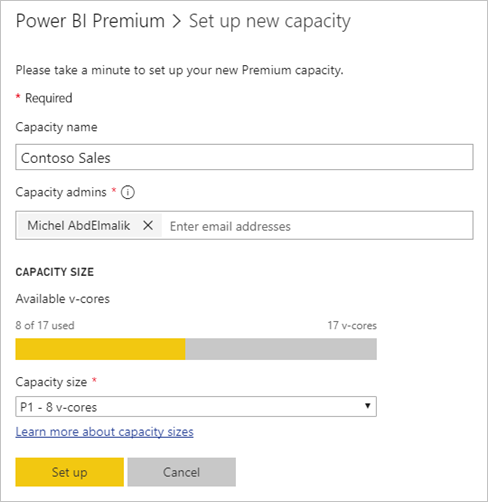
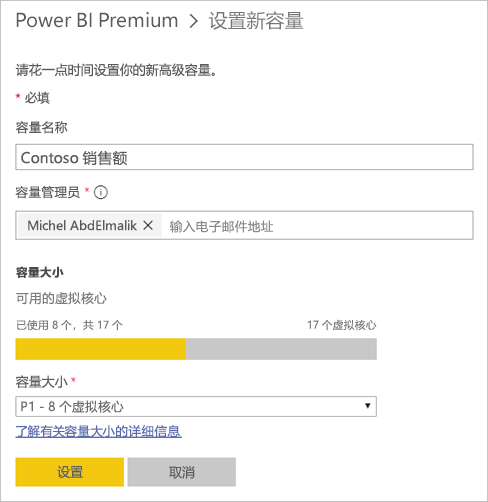
commit translated contents

diff --git a/powerbi-docs/consumer/mobile/mobile-app-windows-10-ssrs-kpis-mobile-reports.md b/powerbi-docs/consumer/mobile/mobile-app-windows-10-ssrs-kpis-mobile-reports.md
@@ -5,22 +5,22 @@ author: paulinbar
 ms.service: powerbi
 ms.subservice: powerbi-mobile
 ms.topic: conceptual
-ms.date: 03/09/2020
+ms.date: 05/19/2020
 ms.author: painbar
-ms.openlocfilehash: 67daafc0938216b135b31d3190c191402e9a10de
-ms.sourcegitcommit: 7aa0136f93f88516f97ddd8031ccac5d07863b92
+ms.openlocfilehash: 28353ec6d0b2f8a1f83544d63526748c621cb858
+ms.sourcegitcommit: 250242fd6346b60b0eda7a314944363c0bacaca8
 ms.translationtype: HT
 ms.contentlocale: zh-CN
-ms.lasthandoff: 05/05/2020
-ms.locfileid: "79435366"
+ms.lasthandoff: 05/20/2020
+ms.locfileid: "83694116"
 ---
 # <a name="view-on-premises-reports-and-kpis-in-the-power-bi-windows-app"></a>在 Power BI Windows 应用中查看本地报表和 KPI
 使用适用于 Windows 10 的 Power BI 应用，可以通过触控实时移动访问 SQL Server 2016 Reporting Services 中的重要本地业务信息。 
 
-![Reporting Services 移动报表](././media/mobile-app-windows-10-ssrs-kpis-mobile-reports/power-bi-ssrs-mobile-report.png)
+![Reporting Services 移动报表](media/mobile-app-windows-10-ssrs-kpis-mobile-reports/power-bi-ssrs-mobile-report.png)
 
 ## <a name="first-things-first"></a>要做的第一件事
-可以使用 SQL Server 2016 企业版移动报表发布服务器[生成 Reporting Services 移动报表](https://msdn.microsoft.com/library/mt652547.aspx)，然后将其发布到 [Reporting Services Web 门户](https://msdn.microsoft.com/library/mt637133.aspx)。 直接在 Web 门户中创建 KPI。 将其按文件夹进行整理并标记出你的收藏夹，以便轻松地找到它们。 
+可以使用 SQL Server 2016 企业版移动报表发布服务器[生成 Reporting Services 移动报表](/sql/reporting-services/mobile-reports/create-mobile-reports-with-sql-server-mobile-report-publisher)，然后将其发布到 [Reporting Services Web 门户](/sql/reporting-services/web-portal-ssrs-native-mode)。 直接在 Web 门户中创建 KPI。 将其按文件夹进行整理并标记出你的收藏夹，以便轻松地找到它们。 
 
 然后，在适用于 Windows 10 的 Power BI 应用中，查看已按文件夹整理或收集为收藏项的 KPS、移动报表和 Power BI 报表。 
 
@@ -28,85 +28,87 @@ ms.locfileid: "79435366"
 > 设备需要运行 Windows 10。 该应用在至少具有 1 GB RAM 和 8 GB 内部存储的设备上运行最佳。
 
 >[!NOTE]
->我们将于 2021 年 3 月 16 日终止对使用 Windows 10 移动版的手机提供 Power BI 移动应用支持  。 [了解详细信息](https://go.microsoft.com/fwlink/?linkid=2121400)
+>我们将于 2021 年 3 月 16 日终止对使用 Windows 10 移动版的手机提供 Power BI 移动应用支持。 [了解详细信息](https://go.microsoft.com/fwlink/?linkid=2121400)
 
 ## <a name="explore-samples-without-a-sql-server-2016-reporting-services-server"></a>在没有 SQL Server 2016 Reporting Services 服务器的情况下浏览示例
 即使你没有对 Reporting Services Web 门户的访问权限，仍可以浏览 Reporting Services 移动报表的功能。
 
 1. 在 Windows 10 设备上打开 Power BI 应用。
-2. 点击左上角的 ![全局导航按钮 ](././media/mobile-app-windows-10-ssrs-kpis-mobile-reports/powerbi_windows10_options_icon.png) 全局导航按钮。
-3. 点击“设置”  图标 ![设置图标](./././media/mobile-app-windows-10-ssrs-kpis-mobile-reports/power-bi-settings-icon.png)，右键单击或点击并按住“连接到服务器”  ，再点击“查看示例”  。
+2. 点击左上角的 ![全局导航按钮](media/mobile-app-windows-10-ssrs-kpis-mobile-reports/powerbi_windows10_options_icon.png) 全局导航按钮。
+3. 点击“设置”图标 ![设置图标](media/mobile-app-windows-10-ssrs-kpis-mobile-reports/power-bi-settings-icon.png)，右键单击或点击并按住“连接到服务器”，再点击“查看示例”。
    
-   ![查看 SSRS 示例](./media/mobile-app-windows-10-ssrs-kpis-mobile-reports/power-bi-win10-connect-ssrs-samples.png)
+   ![查看 SSRS 示例](media/mobile-app-windows-10-ssrs-kpis-mobile-reports/power-bi-win10-connect-ssrs-samples.png)
 4. 打开零售报表或销售报表文件夹，浏览 KPI 和移动报表。
    
-   ![示例 KPI 和移动报表](./media/mobile-app-windows-10-ssrs-kpis-mobile-reports/power-bi-win10-ssrs-sample-kpis.png)
+   ![示例 KPI 和移动报表](media/mobile-app-windows-10-ssrs-kpis-mobile-reports/power-bi-win10-ssrs-sample-kpis.png)
 
 浏览示例以与 KPI 和移动报表进行交互。
 
 ## <a name="connect-to-a-reporting-services-report-server"></a>连接到 Reporting Services 报表服务器
-1. 在导航窗格底部，点击“设置” **“设置”图标**![](./././media/mobile-app-windows-10-ssrs-kpis-mobile-reports/power-bi-settings-icon.png)
-2. 点击“连接到服务器”  。
+1. 在导航窗格底部，点击“设置”![“设置”图标](media/mobile-app-windows-10-ssrs-kpis-mobile-reports/power-bi-settings-icon.png)
+2. 点击“连接到服务器”。
 3. 填写服务器地址以及用户名和密码。 对服务器地址使用如下格式：
    
      `https://<servername>/reports` 或 `https://<servername>/reports`
    
    > [!NOTE]
-   > 连接字符串的开头包括 http  或 https  。
+   > 连接字符串的开头包括 http 或 https。
    > 
    > 
    
-    如果需要，点击**高级选项**以指定服务器名称。
+    如果需要，点击“高级选项”以指定服务器名称。
 4. 点击复选标记进行连接。 
    
    现在会在导航窗格中看到服务器。
    
-   ![导航窗格中的服务器](./media/mobile-app-windows-10-ssrs-kpis-mobile-reports/power-bi-ssrs-mobile-report-server.png)
+   ![导航窗格中的服务器](media/mobile-app-windows-10-ssrs-kpis-mobile-reports/power-bi-ssrs-mobile-report-server.png)
    
    >[!TIP]
-   >随时点击全局导航按钮 ![全局导航按钮](././media/mobile-app-windows-10-ssrs-kpis-mobile-reports/powerbi_windows10_options_icon.png)，在 Power BI 服务中的 Reporting Services 移动报表和仪表板之间切换。 
+   >随时点击全局导航按钮 ![全局导航按钮](media/mobile-app-windows-10-ssrs-kpis-mobile-reports/powerbi_windows10_options_icon.png)，在 Power BI 服务中的 Reporting Services 移动报表和仪表板之间切换。 
    > 
+
+   >[!NOTE]
+   >不支持通过自定义端口配置的报表服务器，也无法从 Power BI Windows 应用访问此类报表服务器。 
 
 ## <a name="view-reporting-services-kpis-and-mobile-reports-in-the-power-bi-app"></a>在 Power BI 应用中查看 Reporting Services KPI 和移动报表
 Reporting Services KPI、移动报表和 Power BI 报表（预览版）显示在 Reporting Services Web 门户上的相同文件夹中。
 
-![报表文件夹](./media/mobile-app-windows-10-ssrs-kpis-mobile-reports/power-bi-ssrs-mobile-report-folders.png)
+![报表文件夹](media/mobile-app-windows-10-ssrs-kpis-mobile-reports/power-bi-ssrs-mobile-report-folders.png)
 
-* 点击 KPI 以在焦点模式中查看它。
+* 点击 KPI 以在焦点模式中看到它。
   
-    ![焦点模式下的 KPI](./media/mobile-app-windows-10-ssrs-kpis-mobile-reports/power-bi-ssrs-mobile-report-kpis.png)
-* 点击移动报表以在 Power BI 应用中打开并与其进行交互。
+    ![焦点模式下的 KPI](media/mobile-app-windows-10-ssrs-kpis-mobile-reports/power-bi-ssrs-mobile-report-kpis.png)
+* 点击移动报表以在 Power BI 应用中打开并与其交互。
   
-    ![Reporting Services 移动报表](././media/mobile-app-windows-10-ssrs-kpis-mobile-reports/power-bi-ssrs-mobile-report.png)
+    ![Reporting Services 移动报表](media/mobile-app-windows-10-ssrs-kpis-mobile-reports/power-bi-ssrs-mobile-report.png)
 
 ## <a name="view-your-favorite-kpis-and-reports"></a>查看你收藏的 KPI 和报表
 可以在 Reporting Services Web 门户中将 KPI、移动报表和 Power BI 报表标记为收藏项，然后可以在 Windows 10 设备上的一个方便文件夹中查看它们，以及 Power BI 收藏的仪表板和报表。
 
-* 点击“收藏夹”  。
+* 点击**收藏夹**。
   
-   ![“收藏夹”图标](./media/mobile-app-windows-10-ssrs-kpis-mobile-reports/power-bi-ssrs-mobile-report-favorite-menu.png)
+   ![“收藏夹”图标](media/mobile-app-windows-10-ssrs-kpis-mobile-reports/power-bi-ssrs-mobile-report-favorite-menu.png)
   
    你在 Web 门户上的收藏项都在此页上。
   
-详细了解有关 [Power BI 移动应用中的收藏夹](mobile-apps-favorites.md)的信息。
+阅读有关 [Power BI 移动应用中的收藏夹](mobile-apps-favorites.md) 的更多信息。
 
 ## <a name="remove-a-connection-to-a-report-server"></a>删除与报表服务器的连接
 在 Power BI 移动应用中一次只能连接到一个报表服务器。 如果想要连接到不同的服务器，需要断开与当前服务器的连接。
 
-1. 在导航窗格底部，点击“设置” **“设置”图标**![](./././media/mobile-app-windows-10-ssrs-kpis-mobile-reports/power-bi-settings-icon.png)。
+1. 在导航窗格底部，点击“设置”![“设置”图标](media/mobile-app-windows-10-ssrs-kpis-mobile-reports/power-bi-settings-icon.png)。
 2. 点击并按住不想连接到的服务器的名称。
-3. 点击“删除服务器”  。
+3. 点击“删除服务器”。
    
-    ![删除服务器](./media/mobile-app-windows-10-ssrs-kpis-mobile-reports/power-bi-windows-10-ssrs-remove-server-menu.png)
+    ![删除服务器](media/mobile-app-windows-10-ssrs-kpis-mobile-reports/power-bi-windows-10-ssrs-remove-server-menu.png)
 
 ## <a name="create-reporting-services-mobile-reports-and-kpis"></a>创建 Reporting Services 移动报表和 KPI
 不是在 Power BI 移动应用中创建 Reporting Services KPI 和移动报表。 而是在 SQL Server 移动报表发布服务器和 SQL Server 2016 Reporting Services Web 门户中创建它们。
 
-* [创建自己的 Reporting Services 移动报表](https://msdn.microsoft.com/library/mt652547.aspx)并将其发布到 Reporting Services Web 门户。
-* [在 Reporting Services Web 门户上创建 KPI](https://msdn.microsoft.com/library/mt683632.aspx)
+* [创建自己的 Reporting Services 移动报表](/sql/reporting-services/mobile-reports/create-mobile-reports-with-sql-server-mobile-report-publisher)并将其发布到 Reporting Services Web 门户。
+* [在 Reporting Services Web 门户上创建 KPI](/sql/reporting-services/working-with-kpis-in-reporting-services)
 
 ## <a name="next-steps"></a>后续步骤
 * [适用于 Windows 10 的 Power BI 移动应用入门](mobile-windows-10-phone-app-get-started.md)  
 * [什么是 Power BI？](../../fundamentals/power-bi-overview.md)  
-* 是否有任何问题？ [尝试咨询 Power BI 社区](https://community.powerbi.com/)
-
+* 是否有任何问题? [尝试咨询 Power BI 社区](https://community.powerbi.com/)

diff --git a/powerbi-docs/collaborate-share/service-embed-report-microsoft-teams.md b/powerbi-docs/collaborate-share/service-embed-report-microsoft-teams.md
@@ -10,12 +10,12 @@ ms.subservice: powerbi-service
 ms.topic: conceptual
 LocalizationGroup: Share your work
 ms.date: 04/27/2020
-ms.openlocfilehash: c424572cf222e4b2f65354e7b9a0959b60a56fca
-ms.sourcegitcommit: bfc2baf862aade6873501566f13c744efdd146f3
+ms.openlocfilehash: 7034bd544ee9c14dd5f32df9335faefd4221e4ac
+ms.sourcegitcommit: 250242fd6346b60b0eda7a314944363c0bacaca8
 ms.translationtype: HT
 ms.contentlocale: zh-CN
-ms.lasthandoff: 05/13/2020
-ms.locfileid: "83143921"
+ms.lasthandoff: 05/20/2020
+ms.locfileid: "83693904"
 ---
 # <a name="embed-reports-in-microsoft-teams-with-the-power-bi-tab"></a>使用“Power BI”选项卡在 Microsoft Teams 中嵌入报表
 
@@ -23,23 +23,24 @@ ms.locfileid: "83143921"
 
 ## <a name="requirements"></a>要求
 
-若要使 Microsoft Teams 的“Power BI”  选项卡正常工作，请确保：
+若要使 Microsoft Teams 的“Power BI”选项卡正常工作，请确保：
 
 - 用户具有 Power BI Pro 许可证，或报告包含在具有 Power BI 许可证的 [Power BI Premium 容量（EM 或 P SKU）](../admin/service-premium-what-is.md)中。
 - Microsoft Teams 具有“Power BI”选项卡。
 - 用户已登录到 Power BI 服务以激活其 Power BI 许可证，从而使用报表。
-- 用户必须具有查看报表的权限。
+- 若要使用 Power BI 选项卡在 Microsoft Teams 中添加报表，必须在托管报表的工作区中至少具有一个查看者角色。 有关不同角色的信息，请参阅[新工作区中的角色](service-new-workspaces.md#roles-in-the-new-workspaces)。
+- 若要在 Microsoft Teams 的 Power BI 选项卡中查看报表，用户必须具有查看报表的权限。
 
-此外，若要使链接预览  正常工作，请确保：
+此外，若要使链接预览正常工作，请确保：
 - 用户满足使用 Microsoft Teams 的“Power BI”选项卡的要求。
-- 用户已登录 Power BI 机器人服务。 
+- 用户已登录 Power BI 服务。 
 
 
 ## <a name="embed-your-report"></a>嵌入报表
 
 按照以下步骤将报表嵌入 Microsoft Teams 频道或聊天。
 
-1. 在 Microsoft Teams 中打开频道或聊天，然后选择“+”图标  。
+1. 在 Microsoft Teams 中打开频道或聊天，然后选择“+”图标。
 
     ![将选项卡添加到频道或聊天](media/service-embed-report-microsoft-teams/service-embed-report-microsoft-teams-add.png)
 
@@ -53,7 +54,7 @@ ms.locfileid: "83143921"
 
 4. 选项卡名称会自动更新以匹配报表名称，但你可以自行更改。 
 
-5. 按“保存”  。
+5. 按“保存”。
 
 ## <a name="supported-reports-for-embedding-the-power-bi-tab"></a>嵌入“Power BI”选项卡的受支持报表
 可以在“Power BI”选项卡上嵌入以下类型的报表：
@@ -90,12 +91,12 @@ ms.locfileid: "83143921"
 
 ## <a name="grant-access-to-reports"></a>授予报表访问权限
 
-在 Microsoft Teams 中嵌入报表或发送项的链接不会自动授予用户报表查看权限 - 你需要[在 Power BI 允许用户查看报表](service-share-dashboards.md)。 可以使用 Office 365 组，从而为团队提供更轻松的体验。 
+在 Microsoft Teams 中嵌入报表或发送项的链接不会自动授予用户报表查看权限 - 你需要[在 Power BI 允许用户查看报表](service-share-dashboards.md)。 可以使用 Microsoft 365 组，从而为团队提供更轻松的体验。
 
 > [!IMPORTANT]
 > 请务必在 Power BI 中检查哪些人员可以查看报表，然后向未列出的人员授予访问权限。
 
-要确保团队中的每个人都有权访问报表，一种方法是将报表放在 Power BI 的单个工作区中，并为团队的 Office 365 组授予对工作区的访问权限。
+要确保团队中的每个人都有权访问报表，一种方法是将报表放在 Power BI 的单个工作区中，并为团队的 Microsoft 365 组授予对工作区的访问权限。
 
 ## <a name="link-previews"></a>链接预览 
 
@@ -110,7 +111,7 @@ ms.locfileid: "83143921"
 
 将“Power BI 报表”选项卡添加到 Teams 时，Teams 可自动为报表创建选项卡对话。 
 
-- 选择右上角的“显示选项卡对话”  。
+- 选择右上角的“显示选项卡对话”。
 
     ![显示选项卡对话图标](media/service-embed-report-microsoft-teams/power-bi-teams-conversation-icon.png)
 
@@ -123,7 +124,7 @@ ms.locfileid: "83143921"
 - Power BI 不支持 Microsoft Teams 支持的本地化语言。 因此，可能无法在嵌入的报表中看到正确的本地化内容。
 - 不能在 Microsoft Teams 的“Power BI”选项卡中嵌入 Power BI 仪表板。
 - 没有 Power BI 许可证或报表权限的用户会看到“内容不可用”消息。
-- 如果使用的是 Internet Explorer 10，可能会遇到问题。 <!--You can look at the [browsers support for Power BI](../consumer/end-user-browsers.md) and for [Office 365](https://products.office.com/office-system-requirements#Browsers-section). -->
+- 如果使用的是 Internet Explorer 10，可能会遇到问题。 <!--You can look at the [browsers support for Power BI](../consumer/end-user-browsers.md) and for [Microsoft 365](https://products.office.com/office-system-requirements#Browsers-section). -->
 - Microsoft Teams 的“Power BI”选项卡不支持 [URL 筛选器](service-url-filters.md)。
 - 在国家云中，新的“Power BI”选项卡不可用。 可能有较旧的版本可用，该版本不支持 Power BI 应用中的新工作区体验工作区或报表。 
 - 保存选项卡之后，无法通过选项卡设置更改选项卡名称。 使用重命名选项对其进行更改。
